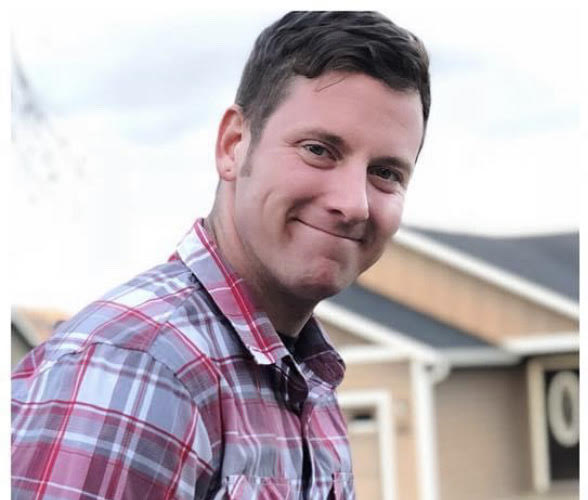
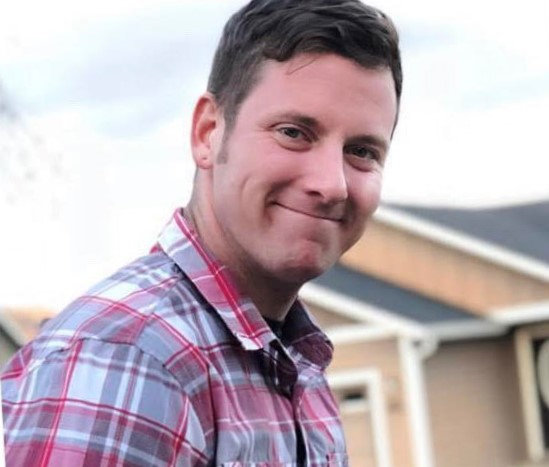
edited styles on about me page

diff --git a/react-portfolio/src/components/AboutMe/index.js b/react-portfolio/src/components/AboutMe/index.js
@@ -3,15 +3,15 @@ import profilePic from './images/profile-pic.jpg';
 
 const AboutMe = () => {
     return (
-        <div className="flex flex-col justify-center items-center bg-gray-800 text-white min-h-screen py-10 px-4 md:px-0">
-            <h1 className="text-3xl md:text-5xl font-bold mb-4">Corey Vasser</h1>
-            <img src={profilePic} alt="Corey Vasser" className="w-32 h-32 md:w-64 md:h-64 rounded-full mx-auto shadow-lg" />
-            <div className="mt-10 md:mt-0 text-center md:text-left space-y-4 w-full md:w-1/2">
+        <div className="flex flex-col md:flex-row justify-center bg-gray-800 text-white min-h-screen py-10 px-4 md:px-20">
+            <img src={profilePic} alt="Corey Vasser" className="w-28 h-28 rounded-full mx-auto md:mx-0 shadow-lg md:mb-0 md:mr-10" />
+            <div className="text-center md:text-left space-y-4 w-full md:w-1/2">
+                <h1 className="text-3xl md:text-5xl font-bold mb-4">About Me</h1>
                 <p className="text-lg md:text-xl">Hello! I'm Corey 👋, a dedicated Web Developer based in the beautiful Pacific Northwest. I hold a strong passion for computer science, with a particular focus on full-stack development and mastery of JavaScript.</p>
                 <p className="text-lg md:text-xl">I pride myself on being more than just a developer. I am a problem-solver at heart, always eager to dive into challenging situations and find efficient, creative solutions. I consider every problem as an opportunity to learn, grow, and refine my skills.</p>
                 <p className="text-lg md:text-xl">In the ever-evolving world of web development, continuous learning is not an option - it's a necessity. I strive to stay updated with the latest industry trends and technologies, continuously pushing my boundaries to design and develop innovative web solutions that not only meet but exceed client expectations.</p>
                 <p className="text-lg md:text-xl">Beyond my technical skills, I am a strong communicator and team player. I believe in the power of collaboration to create robust and sustainable solutions, and I'm always open to fresh perspectives.</p>
-                <p className="text-lg md:text-xl">Outside of my professional life, I find joy in appreciating life's simple pleasures and exploring the diverse landscapes that our Pacific Northwest has to offer.</p>
+                <p className="text-lg md:text-xl">Outside of my professional life, I find joy in being a father, appreciating life's simple pleasures, playing disc golf, and exploring the diverse landscapes that our Pacific Northwest has to offer.</p>
                 <p className="text-lg md:text-xl">I look forward to bringing my passion, dedication, and expertise to new opportunities and challenges. Let's build the digital future together!</p>
             </div>
         </div>

diff --git a/react-portfolio/src/components/Header/index.js b/react-portfolio/src/components/Header/index.js
@@ -18,7 +18,7 @@ const Header = ({ activeTab, setActiveTab }) => {
             <nav className="flex justify-around">
                 <NavLink
                     to="/about"
-                    className={`${activeTab === '/about' ? 'text-lg font-bold' : 'text-lg'} hover:text-blue-500`}
+                    className={`text-xl ${activeTab === '/about' ? 'underline text-teal-500' : ''} hover:text-blue-500`}
                     onClick={() => handleTabChange('/about')}
                 >
                     About Me
@@ -26,21 +26,21 @@ const Header = ({ activeTab, setActiveTab }) => {
 
                 <NavLink
                     to="/portfolio"
-                    className={`${activeTab === '/portfolio' ? 'text-lg font-bold' : 'text-lg'} hover:text-blue-500`}
+                    className={`text-xl ${activeTab === '/portfolio' ? 'underline text-teal-500' : ''} hover:text-blue-500`}
                     onClick={() => handleTabChange('/portfolio')}
                 >
                     Portfolio
                 </NavLink>
                 <NavLink
                     to="/contact"
-                    className={`${activeTab === '/contact' ? 'text-lg font-bold' : 'text-lg'} hover:text-blue-500`}
+                    className={`text-xl ${activeTab === '/contact' ? 'underline text-teal-500' : ''} hover:text-blue-500`}
                     onClick={() => handleTabChange('/contact')}
                 >
                     Contact
                 </NavLink>
                 <NavLink
                     to="/resume"
-                    className={`${activeTab === '/resume' ? 'text-lg font-bold' : 'text-lg'} hover:text-blue-500`}
+                    className={`text-xl ${activeTab === '/resume' ? 'underline text-teal-500' : ''} hover:text-blue-500`}
                     onClick={() => handleTabChange('/resume')}
                 >
                     Resume
